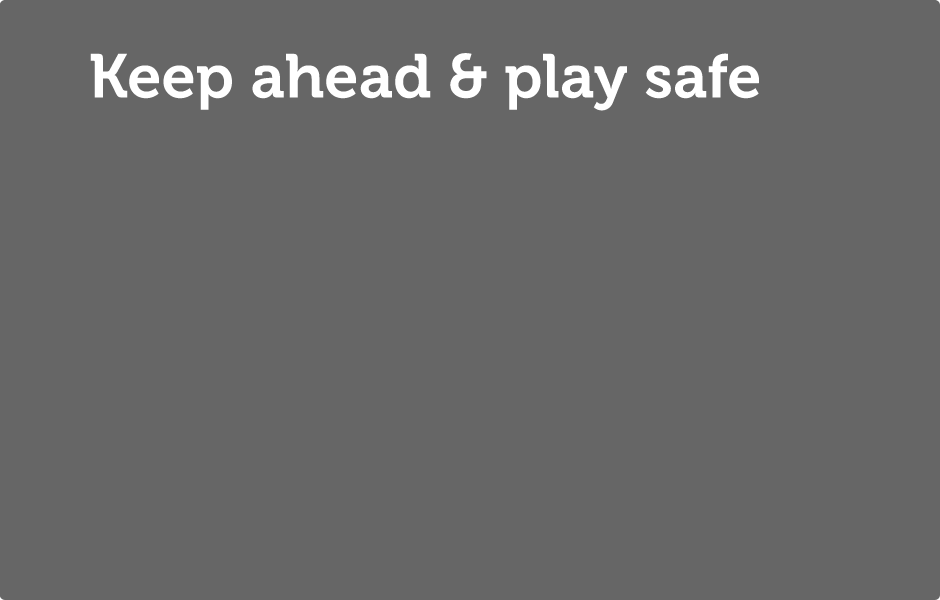
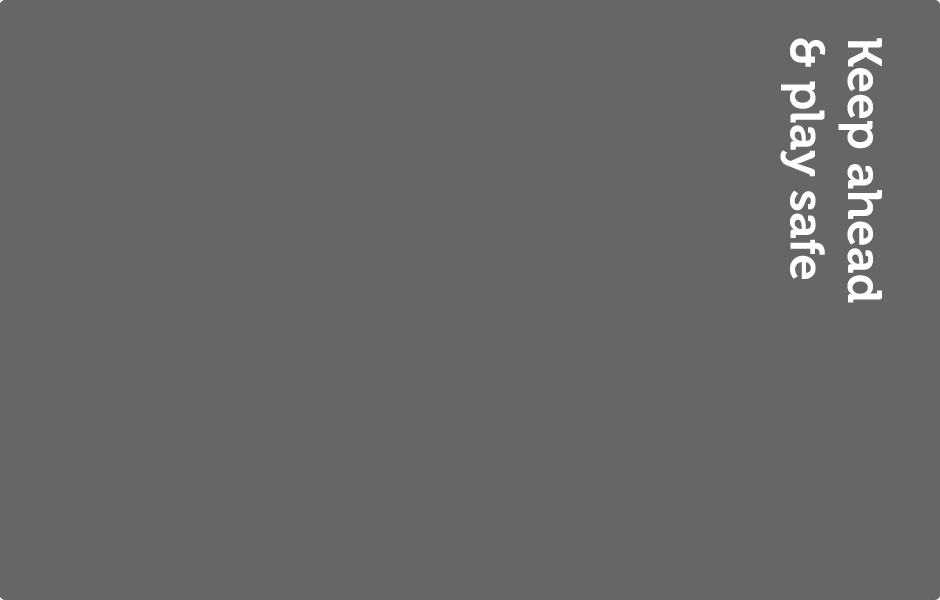
Resizing WIP

Changed region(s): [[0.0926, 0.06, 0.9564, 0.51]]

diff --git a/js/mylibs/com/studywiz/players/SequencePlayer.js b/js/mylibs/com/studywiz/players/SequencePlayer.js
@@ -141,12 +141,21 @@ var SequencePlayer = new Class({
 
                     var myContainerID = 'SequenceIntro.container';
                     var myDiv = new Element("div", {
-                        id : myContainerID
+                        id : myContainerID,
+                        styles : {
+                            position : 'absolute',
+                            'left' : Main.VIDEO_LEFT + 'px',
+                            'top' : Main.VIDEO_TOP + 'px',
+                            'width' : Main.VIDEO_WIDTH + 'px',
+                            'height' : Main.VIDEO_HEIGHT + 'px'
+                        }
                     });
                     myDiv.inject($m(Main.DIV_ID));
 
-                    step.media.image.options.style.width = Main.WIDTH + "px";
-                    step.media.image.options.style.height = Main.HEIGHT + "px";
+                    //step.media.image.options.style.width = Main.VIDEO_WIDTH + "px";
+                    // step.media.image.options.style.height = Main.VIDEO_HEIGHT + "px";
+                    // step.media.image.options.style.left = Main.VIDEO_LEFT + "px";
+                    //  step.media.image.options.style.top = Main.VIDEO_TOP + "px";
 
                     step.media.image.add(myContainerID);
                     step.media.image.show();
@@ -155,15 +164,15 @@ var SequencePlayer = new Class({
                     step.media.previewImage.show();
 
                     /*var moduleTitle = new Element("h1", {
-                        html : this.moduleInfo.moduleTitle,
-                        styles : {
-                            left : '0px',
-                            top : '20%'
-                        },
-                        'class' : 'module-title no-select'
-                    });
-                    moduleTitle.inject(myDiv);
-                    */
+                     html : this.moduleInfo.moduleTitle,
+                     styles : {
+                     left : '0px',
+                     top : '20%'
+                     },
+                     'class' : 'module-title no-select'
+                     });
+                     moduleTitle.inject(myDiv);
+                     */
 
                     var moduleState = Main.userTracker.getModuleState(this.moduleInfo.moduleID);
                     var sequenceTitleText = "Exercise " + this.sequenceState.id + " of " + moduleState.total;
@@ -802,6 +811,14 @@ var SequencePlayer = new Class({
     },
     //------------------------------------------------------------------------
     _setupQuestions : function(options) {
+        var padding = 20;
+
+        options.style = {
+            'top' : '60%',
+            'left' : (Main.VIDEO_LEFT +  padding) + 'px',
+            'width' : (Main.VIDEO_WIDTH - 4 * padding) + 'px',
+            'padding' : padding + 'px ' + padding + 'px ' + padding + 'px ' + padding + 'px'
+        };
         var questions = new Questions(this, options);
         questions.add(Main.DIV_ID, "bottom");
         questions.show();
@@ -842,7 +859,7 @@ var SequencePlayer = new Class({
 
                         if (stepType == 'Cameo') {
                             style = {
-                                'left' : (Main.VIDEO_WIDTH - 240 - 50) + 'px',
+                                'left' : (Main.VIDEO_WIDTH - 240 - 120) + 'px',
                                 'top' : (Main.VIDEO_TOP + 20) + 'px',
                                 'width' : '240',
                                 'height' : '175'

diff --git a/js/mylibs/com/studywiz/ui/uiHelpers.js b/js/mylibs/com/studywiz/ui/uiHelpers.js
@@ -49,7 +49,7 @@ UIHelpers.setMainPanel = function(cssClassName) {
 UIHelpers.getButtonOptions = function(buttonType) {
 
     var buttonPosition = {
-        x : 480,
+        x : 70 + Main.WIDTH - (Main.WIDTH - Main.VIDEO_WIDTH + Main.VIDEO_LEFT)/2,
         y : 415
     };
     var presets = new Hash({
@@ -57,43 +57,43 @@ UIHelpers.getButtonOptions = function(buttonType) {
             id : "button_" + buttonType,
             text : "Main Menu",
             next : "MainMenu.clicked",
-            'class' : "button position_2"
+            'class' : "button position_2 pane orange"
         },
         "Continue" : {
             id : "button_" + buttonType,
             text : "Continue",
             next : "Continue.clicked",
-            'class' : "button position_1"
+            'class' : "button position_1 pane green"
         },
         "Repeat" : {
             id : "button_" + buttonType,
             text : "Repeat",
             next : "Repeat.clicked",
-            'class' : "button position_3"
+            'class' : "button position_3 pane blue"
         },
         "Done" : {
             id : "button_" + buttonType,
             text : "Done",
             next : "Risks.done",
-            'class' : "button position_1"
+            'class' : "button position_1 pane green"
         },
         "Cancel" : {
             id : "button_" + buttonType,
             text : "Cancel",
             next : "ConActivity.cancel.clicked",
-            'class' : "button position_1"
+            'class' : "button position_1 pane orange"
         },
         "Record" : {
             id : "button_" + buttonType,
             text : "Record",
             next : "CommentaryIntro.done",
-            'class' : "button position_1"
+            'class' : "button position_1 pane red"
         },
         "Expert commentary" : {
             id : "button_" + buttonType,
             text : "Expert commentary",
             next : "CommentaryIntro.expert.clicked",
-            'class' : "button position_4",
+            'class' : "button position_4 pane orange",
             style : {
                 width : '195px'
             }
@@ -101,7 +101,7 @@ UIHelpers.getButtonOptions = function(buttonType) {
         "Expert commentary 2" : {
             id : "button_" + buttonType,
             text : "Expert commentary",
-            next : "Commentary.expert.clicked",
+            next : "Commentary.expert.clicked pane orange",
             style : {
                 left : 20,
                 top : buttonPosition.y - 45,
@@ -111,19 +111,19 @@ UIHelpers.getButtonOptions = function(buttonType) {
         "Skip" : {
             id : "button_" + buttonType,
             text : "Skip",
-            next : "ConIntro.done.clicked",
+            next : "ConIntro.done.clicked pane orange",
             'class' : "button position_1"
         },
         "Start" : {
             id : "button_" + buttonType,
             text : "Start",
-            next : "ConIntro.done.clicked",
+            next : "ConIntro.done.clicked pane green",
             'class' : "button position_1"
         },
         "Your commentary" : {
             id : "button_" + buttonType,
             text : "Your commentary",
-            next : "Commentary.replay.clicked",
+            next : "Commentary.replay.clicked pane blue",
             'class' : "button position_4",
             style : {
                 width : '195px'

diff --git a/css/button.css b/css/button.css
@@ -17,7 +17,8 @@
 	-webkit-box-shadow: 0 0 1px 1px rgba(255,255,255,.8) inset, 0 1px 0 rgba(0,0,0,.3);
 	box-shadow: 0 0 1px 1px rgba(255,255,255,.8) inset, 0 1px 0 rgba(0,0,0,.3);
 	position: absolute;
-	min-width: 140px
+	min-width: 140px;
+	min-height: 50px;
 }
 
 .button:hover {
@@ -53,22 +54,22 @@
 }
 
 .position_1 {
-	left: 480px;
-	top: 415px
+	left: 760px;
+	top: 470px
 }
 
 .position_2 {
-	left: 480px;
-	top: 370px
+	left: 760px;
+	top: 395px
 }
 
 .position_3 {
-	left: 480px;
-	top: 325px
+	left: 760px;
+	top: 320px
 }
 
 .position_4 {
-	left: 20px;
-	top: 415px;
+	left: 760px;
+	top: 470px;
 }
 

diff --git a/js/mylibs/Main.js b/js/mylibs/Main.js
@@ -89,13 +89,13 @@ Main.DIV_ID = 'drivesmart';
 
 // the stage size
 Main.WIDTH = 940;
-Main.HEIGHT = 600;
+Main.HEIGHT = 560;
 
 // the main Video size
-Main.VIDEO_WIDTH = 600;
-Main.VIDEO_HEIGHT = 440;
-Main.VIDEO_TOP = 110;
-Main.VIDEO_LEFT = 90;
+Main.VIDEO_WIDTH = 700;
+Main.VIDEO_HEIGHT = 525;
+Main.VIDEO_TOP = 20;
+Main.VIDEO_LEFT = 20;
 
 // Version stuff
 Main.VERSION = '1.0.1';

diff --git a/js/mylibs/com/studywiz/ui/Questions.js b/js/mylibs/com/studywiz/ui/Questions.js
@@ -10,7 +10,7 @@ var Questions = new Class({
             position : 'absolute',
             top : '0px',
             left : '0px',
-            width : '550px',
+            width : '589px',
             'opacity' : '0',
             'visibility' : 'hidden'
         },

diff --git a/css/questions.css b/css/questions.css
@@ -3,10 +3,10 @@
 	float: left;
 	border-radius: 1em 1em 1em 1em;
 	text-align: left;
-	padding: 8px 8px 8px 8px;
 	-moz-border-radius: 0.5em 0.5em 0.5em 0.5em;
 	background: rgba(0, 0, 0, 0.6);
 	color: #FFFF99;
+	min-height: 110px;
 }
 
 .questions_label_unlocked {	

diff --git a/css/common.css b/css/common.css
@@ -18,7 +18,7 @@
 	background-size: 100% 100%;
 	background-origin: content-box;
 	background-attachment: scroll;
-	height: 600px;
+	height: 560px;
 	width: 940px;
 }
 .videoContainer {
